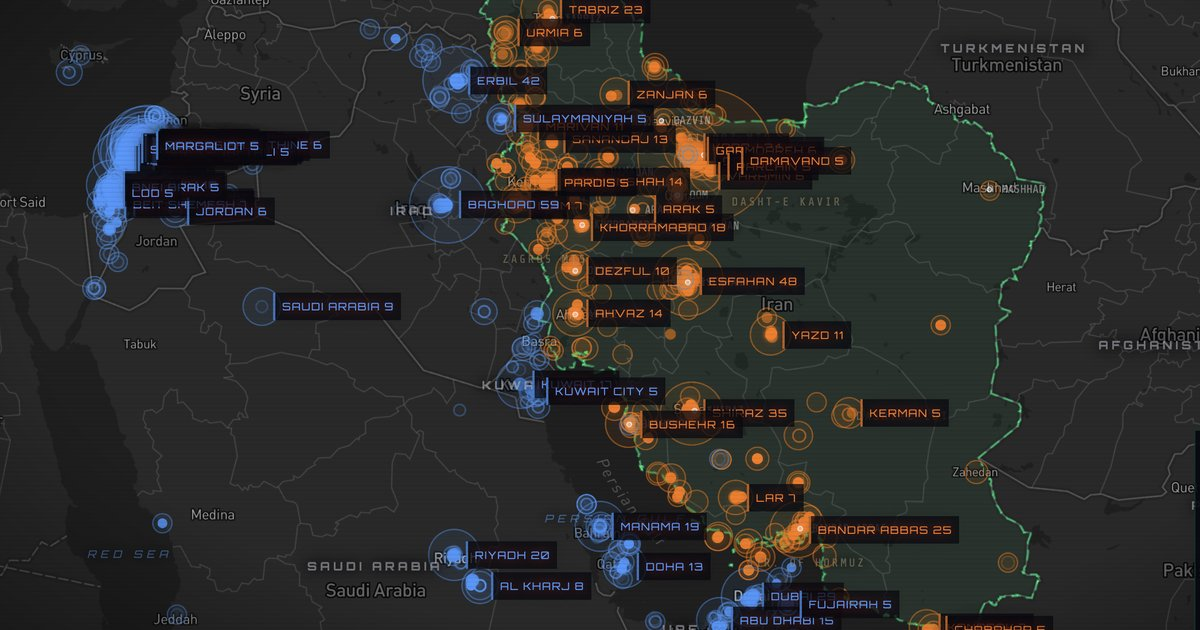
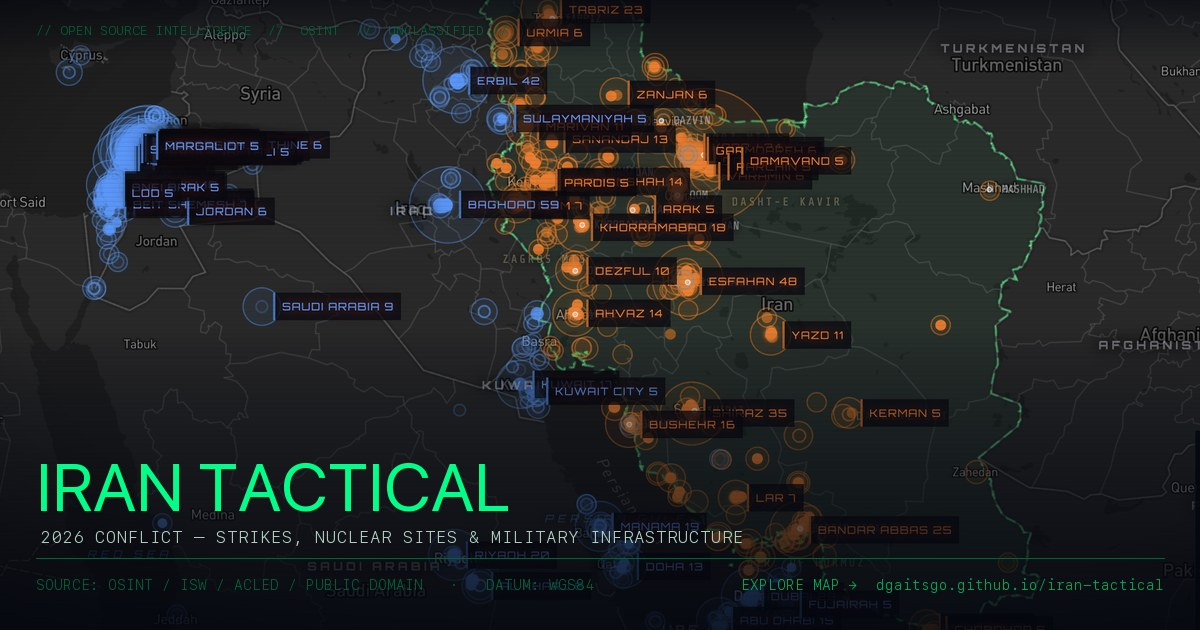
image

diff --git a/index.html b/index.html
@@ -5,17 +5,18 @@
   <meta name="viewport" content="width=device-width, initial-scale=1.0">
   <title>IRAN // TACTICAL OVERVIEW</title>
   <!-- Open Graph / social share -->
-  <meta property="og:type"        content="website">
-  <meta property="og:title"       content="Iran Tactical — OSINT Military Overview">
-  <meta property="og:description" content="Strategic military &amp; nuclear infrastructure, strike data, and regional analysis. OSINT / public domain.">
-  <meta property="og:image"       content="og-image.jpg">
+  <meta property="og:type"         content="website">
+  <meta property="og:url"          content="https://dgaitsgo.github.io/iran-tactical/">
+  <meta property="og:title"        content="Iran Tactical — 2026 Conflict OSINT Strike Map">
+  <meta property="og:description"  content="Interactive map of confirmed US/Israeli strikes on Iran and Iranian retaliatory fire. Nuclear sites, military infrastructure, and regional analysis — OSINT / public domain.">
+  <meta property="og:image"        content="https://dgaitsgo.github.io/iran-tactical/og-image.jpg">
   <meta property="og:image:width"  content="1200">
   <meta property="og:image:height" content="630">
   <!-- Twitter / X card -->
   <meta name="twitter:card"        content="summary_large_image">
-  <meta name="twitter:title"       content="Iran Tactical — OSINT Military Overview">
-  <meta name="twitter:description" content="Strategic military &amp; nuclear infrastructure, strike data, and regional analysis.">
-  <meta name="twitter:image"       content="og-image.jpg">
+  <meta name="twitter:title"       content="Iran Tactical — 2026 Conflict OSINT Strike Map">
+  <meta name="twitter:description" content="Interactive map of confirmed US/Israeli strikes on Iran and Iranian retaliatory fire. Nuclear sites, military infrastructure, and regional analysis.">
+  <meta name="twitter:image"       content="https://dgaitsgo.github.io/iran-tactical/og-image.jpg">
   <link href="https://api.mapbox.com/mapbox-gl-js/v3.3.0/mapbox-gl.css" rel="stylesheet">
   <script src="https://api.mapbox.com/mapbox-gl-js/v3.3.0/mapbox-gl.js"></script>
   <script src="strikes_data.js"></script>
